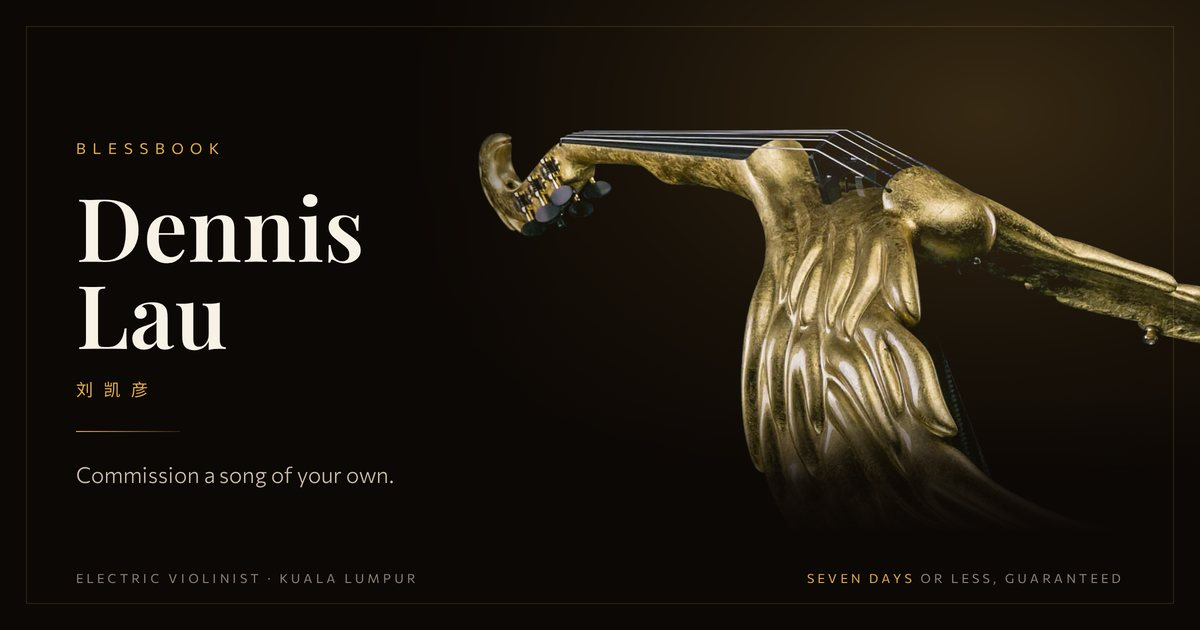
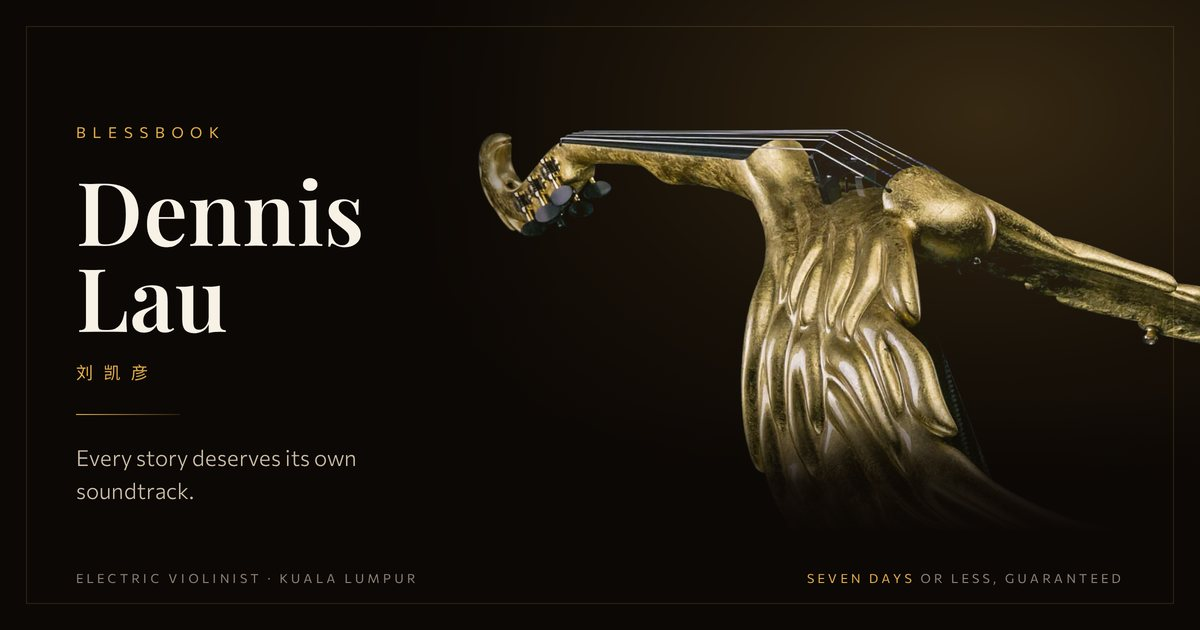
The plate quotes the true entry price, and the house has its line.
Create your song now said From USD 1,500 because the entry price was
computed over the two full tiers alone; the introductory package now
counts, and the plate says From USD 288.

And the tagline is Dennis's team's own: every story deserves its own
soundtrack. It signs the site off above the socials in the display
face's italic, leads both meta descriptions, and speaks from the link
preview in place of the old line.

Changed region(s): [[0.0617, 0.2714, 0.3083, 0.6333], [0.0617, 0.7238, 0.3083, 0.8143], [0.0617, 0.181, 0.185, 0.2413]]

diff --git a/index.html b/index.html
@@ -7,7 +7,7 @@
     <title>Blessbook · Commission a song from Dennis Lau</title>
     <meta
       name="description"
-      content="Malaysia's foremost electric violinist writes and produces one original song for you. A sample inside seven days, and the finished song is yours outright."
+      content="Every story deserves its own soundtrack. Malaysia's foremost electric violinist writes and produces one original song for you: a sample inside seven days, and the finished song is yours outright."
     />
     <meta name="author" content="Dennis Lau" />
     <link rel="canonical" href="%VITE_SITE_URL%/" />
@@ -32,7 +32,7 @@
     <meta property="og:title" content="Dennis Lau · Commission a song of your own" />
     <meta
       property="og:description"
-      content="Dennis Lau is Malaysia's foremost electric violinist and the first performer anywhere to take a six-string 24K gold violin onto a stage. Commission an original song, written and produced by him."
+      content="Every story deserves its own soundtrack. Dennis Lau is Malaysia's foremost electric violinist and the first performer anywhere to take a six-string 24K gold violin onto a stage. Commission an original song, written and produced by him."
     />
     <meta property="og:url" content="%VITE_SITE_URL%/" />
     <meta property="og:image" content="%VITE_SITE_URL%/og.jpg" />
@@ -47,7 +47,7 @@
     <meta name="twitter:title" content="Dennis Lau · Commission a song of your own" />
     <meta
       name="twitter:description"
-      content="Malaysia's foremost electric violinist writes and produces one original song for you. A sample inside seven days, and the finished song is yours outright."
+      content="Every story deserves its own soundtrack. Malaysia's foremost electric violinist writes and produces one original song for you: a sample inside seven days, and the finished song is yours outright."
     />
     <meta name="twitter:image" content="%VITE_SITE_URL%/og.jpg" />
     <meta

diff --git a/src/components/Commission.tsx b/src/components/Commission.tsx
@@ -1,6 +1,6 @@
 import { useEffect, useState } from "react";
 import { Link } from "react-router-dom";
-import { tiers } from "../content/commission";
+import { introTier, tiers } from "../content/commission";
 import { sounding_, watch } from "../lib/listening";
 
 /**
@@ -33,13 +33,15 @@ import { sounding_, watch } from "../lib/listening";
  * furniture on this site that did not know which page it was on.
  */
 
-/** The cheaper of the two, phrased as an entry price rather than a quote. */
-const from = tiers.reduce(
+/* The true entry price, introductory package included: the plate's number is
+   the least a song can cost, not the least a full commission can. */
+const offers = [introTier, ...tiers] as const;
+const from = offers.reduce(
   (cheapest, tier) =>
     Number(tier.price.replace(/[^\d]/g, "")) < Number(cheapest.price.replace(/[^\d]/g, ""))
       ? tier
       : cheapest,
-  tiers[0] as (typeof tiers)[number],
+  offers[0] as (typeof offers)[number],
 );
 
 export function Commission({

diff --git a/src/concepts/phoenix/PhoenixPage.tsx b/src/concepts/phoenix/PhoenixPage.tsx
@@ -52,6 +52,7 @@ import {
 } from "../../content/dennis";
 import { photos } from "../../content/media";
 import { socials } from "../../content/work";
+import { tagline } from "../../content/site";
 import { SceneCanvas } from "../../lib/SceneCanvas";
 import { ScrollStage } from "../../lib/ScrollStage";
 import { useFonts } from "../../lib/useFonts";
@@ -375,6 +376,11 @@ export function PhoenixPage() {
           </section>
 
           <p className="phoenix-note">{commission.note}</p>
+
+          {/* The house line, said once, as the sign-off. */}
+          <p className="phoenix-tagline" data-reveal>
+            {tagline}
+          </p>
 
           <ul className="phoenix-socials">
             {socials.map((social) => (

diff --git a/src/content/site.ts b/src/content/site.ts
@@ -1,6 +1,9 @@
 /** Public site identity. Served from `/blessbook/` on GitHub Pages. */
 export const siteName = "Blessbook";
 
+/** The tagline, Dennis's team's own (Jon, 2026-09-06). */
+export const tagline = "Every story deserves its own soundtrack.";
+
 /** Dennis's team WhatsApp — set VITE_WHATSAPP_NUMBER in .env when provided. */
 const whatsappDigits = (import.meta.env.VITE_WHATSAPP_NUMBER as string | undefined)?.replace(
   /\D/g,

diff --git a/src/concepts/phoenix/phoenix.css b/src/concepts/phoenix/phoenix.css
@@ -1878,6 +1878,17 @@ html {
 
 /* ---------- socials ---------- */
 
+/* The sign-off: the house line, said once, in the display face's italic. */
+.phoenix-tagline {
+  margin: var(--space-4xl) 0 0;
+  max-width: 24ch;
+  font-family: var(--display);
+  font-style: italic;
+  font-size: clamp(1.5rem, 3vw, 2.2rem);
+  line-height: 1.2;
+  color: var(--gold);
+}
+
 .phoenix-socials {
   list-style: none;
   margin: var(--space-4xl) 0 0;
